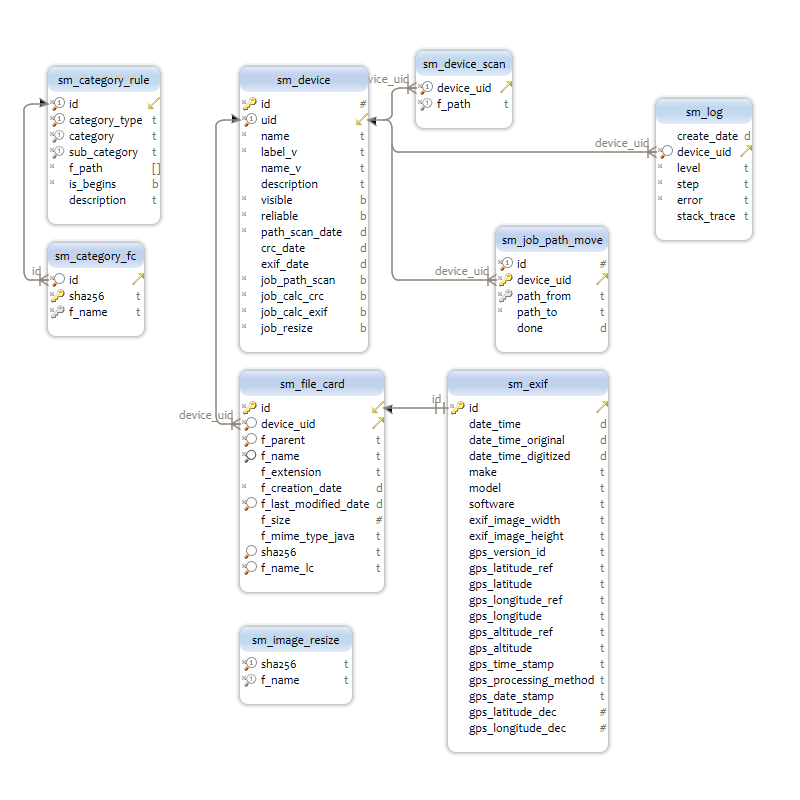
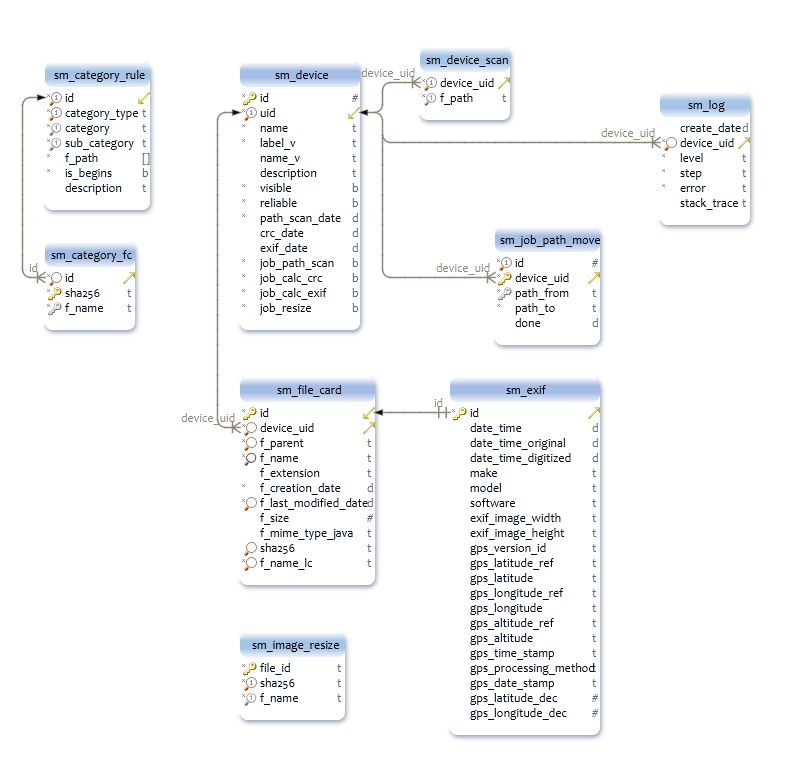
add setDiffModifyDateFilesByParent; update png schema

Changed region(s): [[0.2113, 0.0615, 0.966, 0.9538], [0.0, 0.0615, 0.2113, 0.4308]]

diff --git a/app/views/exif/diff_modify_dates_files.scala.html b/app/views/exif/diff_modify_dates_files.scala.html
@@ -1,10 +1,16 @@
 @import org.joda.time.DateTime
-
-@(exifFc: scala.Vector[(String, String, String, DateTime, DateTime, String, String)])()
+@import helper._
+@(exifFc: scala.Vector[(String, String, String, DateTime, DateTime, String, String, String)], fParent: String)(implicit request: MessagesRequestHeader)
 @_template {
     <div class="row column">
         <h2>list files different between file modify date and exif date</h2>
     </div>
+
+    @form(routes.SmSyncExif.setDiffModifyDateFilesByParent(fParent)) {
+        @CSRF.formField
+
+        <button class="button success">set modify date from exif to files</button>
+    }
 
     <div class="row column">
         <table class="stack">

diff --git a/app/views/exif/diff_modify_dates_dirs.scala.html b/app/views/exif/diff_modify_dates_dirs.scala.html
@@ -16,7 +16,7 @@
             <tbody>
             @for(fc <- exifFc) {
                 <tr>
-                    <td><a href="@routes.SmSyncExif.getFilesDiffModifyDateByParent(fc)">@fc</a></td>
+                    <td><a href="@routes.SmSyncExif.vFilesDiffModifyDateByParent(fc)">@fc</a></td>
                 </tr>
             }
             </tbody>
